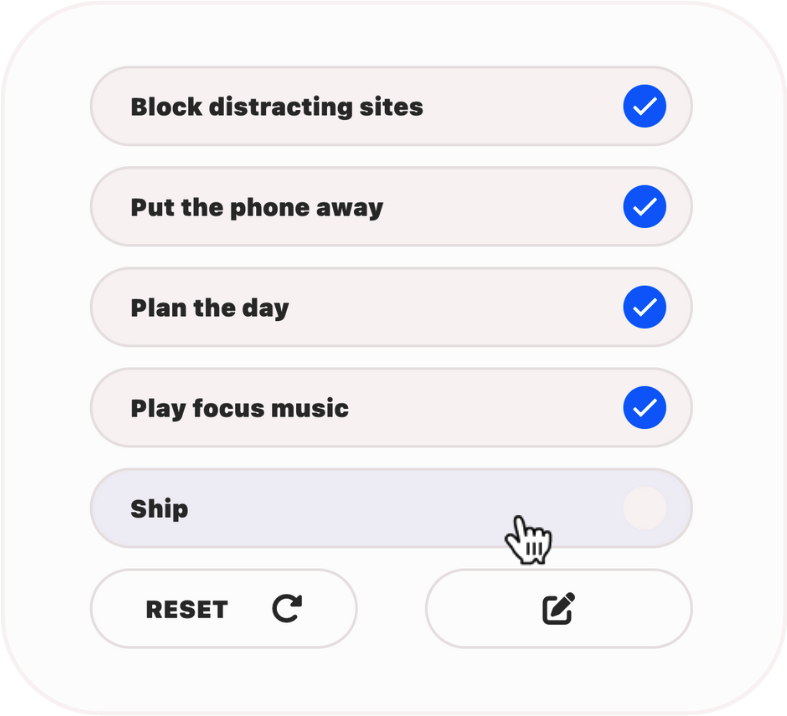
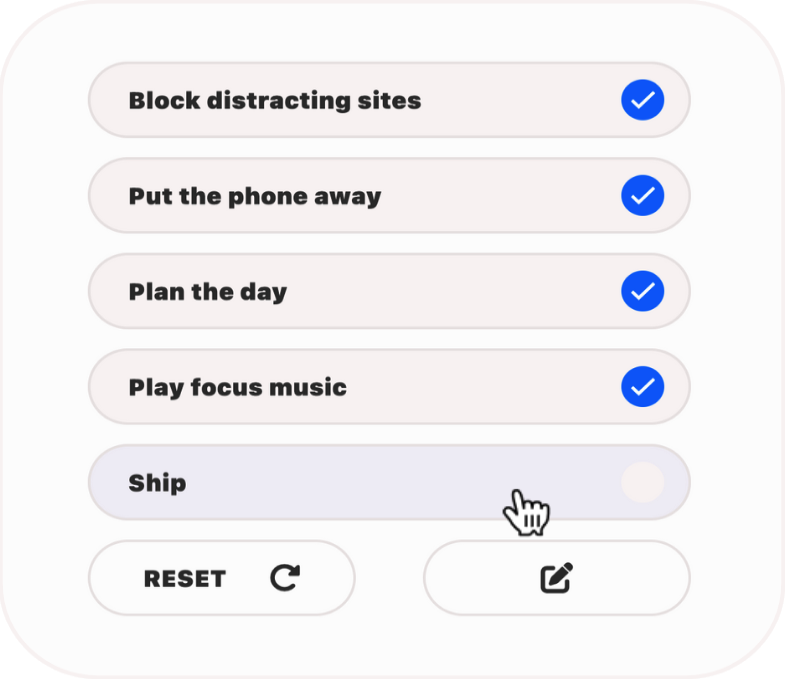
update image and fetch

diff --git a/app/page.tsx b/app/page.tsx
@@ -3,10 +3,18 @@ import { Button } from "@/components/ui/button"
 import { Card, CardContent } from "@/components/ui/card"
 import { Input } from "@/components/ui/input"
 import { Database, PencilRuler, RefreshCcw } from "lucide-react"
+import { FormEvent } from 'react'
+import EmailForm from "@/components/EmailForm"
 
 export default function Home() {
+  const handleSubmit = (e: FormEvent<HTMLFormElement>) => {
+    e.preventDefault()
+    // Add your form submission logic here
+    console.log('Form submitted')
+  }
+
   return (
-    <div className="min-h-screen bg-gradient-to-b from-gray-50 to-white">
+    <div className="min-h-screen bg-white"> {/* Changed this line */}
       <header className="container mx-auto px-4 py-8">
         <nav className="flex justify-between items-center">
           <div className="text-2xl font-bold text-gray-800">Deep Mode Init</div>
@@ -26,27 +34,19 @@ export default function Home() {
               </h1>
               <p className="text-xl text-gray-600 mb-8">
               This simple yet effective Chrome extension helps you focus and be productive.
-
 It will guide you in setting a consistent environment that works for you, not against you.
               </p>
               <div className="flex flex-col sm:flex-row gap-4 justify-center md:justify-start">
-                <form className="flex w-full max-w-sm items-center space-x-2">
-                  <Input
-                    type="email"
-                    placeholder="Enter your email"
-                    className="flex-grow"
-                  />
-                  <Button type="submit">Get it for free</Button>
-                </form>
+                <EmailForm />
               </div>
             </div>
             <div className="md:w-1/2">
               <Image
                 src="/deepmode.png"
-                width={787}
-                height={716}
+                width={456}
+                height={441}
                 alt="Deep Mode Init Chrome Extension"
-                className="rounded-lg shadow-lg mx-auto"
+                className="rounded-lg mx-auto"
               />
             </div>
           </div>
@@ -61,17 +61,17 @@ It will guide you in setting a consistent environment that works for you, not ag
             <FeatureCard
               icon={<RefreshCcw className="h-10 w-10 text-blue-500" />}
               title="Consistent Environment"
-              description="Help you kickstart your work session that works for you"
+              description="Help you kickstart your work session that works for you. Everyday."
             />
             <FeatureCard
               icon={<PencilRuler className="h-10 w-10 text-green-500" />}
               title="Customizable"
-              description="Edit your checklist to fit your needs. Anytime"
+              description="Edit your checklist to fit your needs. Anytime."
             />
             <FeatureCard
               icon={<Database className="h-10 w-10 text-yellow-500" />}
               title="Saved automatically"
-              description="Your checklist is saved locally within your device."
+              description="Your checklist is saved automatically within your browsers."
             />
           </div>
         </section>
@@ -128,20 +128,11 @@ It will guide you in setting a consistent environment that works for you, not ag
         {/* Final CTA Section */}
         <section className="text-center py-20">
           <h2 className="text-3xl font-bold text-gray-800 mb-6">
-            Ready to Boost Your Productivity?
+            Ready for a productivity boost?
           </h2>
-          <p className="text-xl text-gray-600 mb-8">
-            Join thousands of professionals who have transformed their work habits with FocusFlow.
-          </p>
+
           <div className="flex justify-center">
-          <form className="flex w-full max-w-sm items-center space-x-2">
-                  <Input
-                    type="email"
-                    placeholder="Enter your email"
-                    className="flex-grow"
-                  />
-            <Button type="submit">Get it for free</Button>
-          </form>
+            <EmailForm />
           </div>
         </section>
       </main>

diff --git a/components/EmailForm.tsx b/components/EmailForm.tsx
@@ -1,0 +1,75 @@
+'use client'
+
+import { FormEvent } from 'react'
+import { Button } from "@/components/ui/button"
+import { Input } from "@/components/ui/input"
+
+export default function EmailForm() {
+  const handleSubmit = (e: FormEvent<HTMLFormElement>) => {
+    e.preventDefault()
+    const apiUrl = 'https://66fd4b11e785e01fe380.appwrite.global/v1/functions/66fd4b1100010b8bc91b/executions?type=json';
+    const emailInput = e.currentTarget.querySelector('input[type="email"]') as HTMLInputElement;
+    const email = emailInput.value;
+    const emailRegex = /^[^\s@]+@[^\s@]+\.[^\s@]+$/;
+
+    const feedback = document.querySelector('.feedback') as HTMLDivElement;
+
+    const postData = {
+        'email_address': email,
+    };
+
+    const headers = {
+        'X-Appwrite-Project': '66fd3a4a00319edad526',
+        'Content-Type': 'application/json',
+    };
+    
+    if (!emailRegex.test(email)) {
+      console.error('Invalid email address');
+      feedback.textContent = 'Please enter a valid email address';
+      return;
+    }
+
+    console.log('postData', postData);
+    console.log('headers', headers);
+    console.log('apiUrl', apiUrl);
+    fetch(apiUrl, {
+      method: 'POST',
+      headers: headers,
+      body: JSON.stringify(postData),
+    })
+    .then(_ => {
+        feedback.classList.remove('text-gray-500');
+        feedback.classList.add('text-green-500');
+        feedback.textContent = 'Thank you for subscribing!';
+    })
+    .then(data => {
+      console.log('Success:', data);
+
+    })
+    .catch((error) => {
+      console.error('Error:', error);
+      feedback.classList.remove('text-gray-500');
+      feedback.classList.add('text-red-500');
+      feedback.textContent = 'Oops, something went wrong. Please try again later.';
+      // Handle errors
+    });
+    // Add your form submission logic here
+    console.log('Form submitted')
+  }
+
+  return (
+    <div>
+        <form className="flex w-full max-w-sm items-center space-x-2" onSubmit={handleSubmit}>
+        <Input
+            type="email"
+            placeholder="Enter your email"
+            className="flex-grow"
+        />
+        <Button type="submit">Get it for free</Button>
+        </form>
+    <div className="mt-2"></div>
+    <div className="feedback text-sm text-gray-500"></div>
+    </div>
+
+  )
+}
